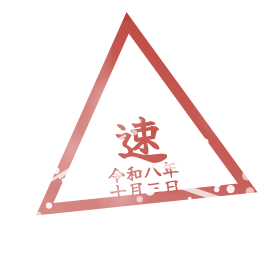
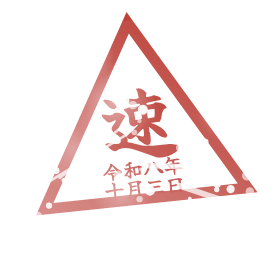
二郎の洗礼の印をにんにくの形にし、疾風の着丼の字を大きくする (#155)

Changed region(s): [[0.3429, 0.3143, 0.6571, 0.7143]]

diff --git a/lib/features/quests/quest_seal.dart b/lib/features/quests/quest_seal.dart
@@ -49,15 +49,15 @@ class QuestSeal extends StatelessWidget {
                 dimension: size,
                 child: CustomPaint(
                   painter: _SpotSealPainter(design.shape),
-                  // 三角と丼は内側が下に寄っているので、字を下げる（三角は狭いので小さくもする）。
+                  // 三角とにんにくは内側が下に寄っているので、字を下げる。三角は下ほど狭いので、日付を小さくする。
                   child: Align(
                     alignment: switch (design.shape) {
-                      QuestSealShape.triangle => const Alignment(0, 0.3),
-                      QuestSealShape.bowl => const Alignment(0, 0.08),
+                      QuestSealShape.triangle => const Alignment(0, -0.02),
+                      QuestSealShape.garlic => const Alignment(0, 0.18),
                       _ => Alignment.center,
                     },
                     child: Transform.scale(
-                      scale: design.shape == QuestSealShape.triangle ? 0.6 : 1,
+                      scale: 1,
                       child: Column(
                         mainAxisSize: MainAxisSize.min,
                         children: [
@@ -69,7 +69,10 @@ class QuestSeal extends StatelessWidget {
                                 fontFamily: Washi.brush,
                                 fontSize:
                                     size *
-                                    (achievedAt == null ? 0.46 : 0.36) /
+                                    (achievedAt == null ? 0.46 : 0.36) *
+                                    (design.shape == QuestSealShape.triangle
+                                        ? 0.9
+                                        : 1) /
                                     (design.glyph.characters.length > 1
                                         ? 1.7
                                         : 1),
@@ -82,10 +85,12 @@ class QuestSeal extends StatelessWidget {
                               // 菱形と花は内側が狭いので、日付を小さくする。
                               width:
                                   size *
-                                  (design.shape == QuestSealShape.diamond ||
-                                          design.shape == QuestSealShape.flower
-                                      ? 0.38
-                                      : 0.5),
+                                  switch (design.shape) {
+                                    QuestSealShape.triangle => 0.34,
+                                    QuestSealShape.diamond ||
+                                    QuestSealShape.flower => 0.38,
+                                    _ => 0.5,
+                                  },
                               child: FittedBox(
                                 child: Text(
                                   kanjiEraDate(l10n, at),
@@ -357,25 +362,62 @@ class _SpotSealPainter extends CustomPainter {
         }
         canvas.drawPath(star..close(), line);
         canvas.drawCircle(c, r * 0.58, thin);
-      // 丼の形（上が平らで、下が深い丸み。下に高台）。
-      case QuestSealShape.bowl:
-        final top = c.dy - r * 0.55;
-        final body = Rect.fromLTRB(
-          c.dx - r,
-          top - r * 1.42,
-          c.dx + r,
-          top + r * 1.42,
-        );
-        final bowl = Path()
-          ..moveTo(body.left, top)
-          ..arcTo(body, math.pi, -math.pi, false)
+      // にんにくの玉（下がふっくら丸く、上がとがる。縁に沿って片の筋、下に根）。
+      case QuestSealShape.garlic:
+        Offset at(double x, double y) => c + Offset(x * r, y * r);
+        final tip = at(0, -0.98);
+        final bulb = Path()
+          ..moveTo(tip.dx, tip.dy)
+          ..cubicTo(
+            at(0.14, -0.7).dx,
+            at(0.14, -0.7).dy,
+            at(0.98, -0.42).dx,
+            at(0.98, -0.42).dy,
+            at(0.92, 0.3).dx,
+            at(0.92, 0.3).dy,
+          )
+          ..cubicTo(
+            at(0.88, 0.8).dx,
+            at(0.88, 0.8).dy,
+            at(0.45, 0.9).dx,
+            at(0.45, 0.9).dy,
+            at(0, 0.9).dx,
+            at(0, 0.9).dy,
+          )
+          ..cubicTo(
+            at(-0.45, 0.9).dx,
+            at(-0.45, 0.9).dy,
+            at(-0.88, 0.8).dx,
+            at(-0.88, 0.8).dy,
+            at(-0.92, 0.3).dx,
+            at(-0.92, 0.3).dy,
+          )
+          ..cubicTo(
+            at(-0.98, -0.42).dx,
+            at(-0.98, -0.42).dy,
+            at(-0.14, -0.7).dx,
+            at(-0.14, -0.7).dy,
+            tip.dx,
+            tip.dy,
+          )
           ..close();
-        canvas.drawPath(bowl, line);
-        canvas.drawLine(
-          Offset(c.dx - r * 0.3, c.dy + r * 0.97),
-          Offset(c.dx + r * 0.3, c.dy + r * 0.97),
-          line,
-        );
+        canvas.drawPath(bulb, line);
+        for (final side in [-1.0, 1.0]) {
+          canvas.drawPath(
+            Path()
+              ..moveTo(at(side * 0.08, -0.78).dx, at(side * 0.08, -0.78).dy)
+              ..quadraticBezierTo(
+                at(side * 0.86, -0.3).dx,
+                at(side * 0.86, -0.3).dy,
+                at(side * 0.72, 0.5).dx,
+                at(side * 0.72, 0.5).dy,
+              ),
+            thin,
+          );
+        }
+        for (final x in [-0.12, 0.0, 0.12]) {
+          canvas.drawLine(at(x * 0.6, 0.92), at(x, 1.0), thin);
+        }
       // 東西南北に小さな三角をもつ丸（方位磁石）。
       case QuestSealShape.compass:
         canvas.drawCircle(c, r - w * 2.4, line);

diff --git a/lib/features/quests/quests.dart b/lib/features/quests/quests.dart
@@ -28,7 +28,7 @@ enum QuestSealShape {
   dashedRing,
   pentagon,
   star,
-  bowl,
+  garlic,
   compass,
   cornerDots,
   wave,
@@ -289,7 +289,7 @@ const quests = <Quest>[
     unit: '杯',
     thresholds: [1],
     count: _jiroCount,
-    seal: QuestSealDesign('二郎', QuestSealShape.bowl),
+    seal: QuestSealDesign('二郎', QuestSealShape.garlic),
   ),
   Quest(
     id: 'far_journey',

diff --git a/test/tool/hiden_catalog_test.dart b/test/tool/hiden_catalog_test.dart
@@ -37,7 +37,7 @@ const _shapeNames = {
   QuestSealShape.dashedRing: '切れ目の輪',
   QuestSealShape.pentagon: '五角形',
   QuestSealShape.star: '星',
-  QuestSealShape.bowl: '丼',
+  QuestSealShape.garlic: 'にんにく',
   QuestSealShape.compass: '方位',
   QuestSealShape.cornerDots: '四隅の点',
   QuestSealShape.wave: '波',

diff --git a/docs/hiden/README.md b/docs/hiden/README.md
@@ -25,7 +25,7 @@
 | <img src="pilgrimage.png" width="72"> | 月の巡礼 | 1か月に10軒の違う店で食べる | 巡 | 切れ目の輪 | いつでも | `pilgrimage` |
 | <img src="limited_month.png" width="72"> | 限定狩りの月 | 1か月に限定を3杯食べる | 狩 | 五角形 | いつでも | `limited_month` |
 | <img src="perfect.png" width="72"> | 満点の舌 | ★5を10杯つける | 満 | 星 | いつでも | `perfect` |
-| <img src="jiro.png" width="72"> | 二郎の洗礼 | 二郎系を食べる | 二郎 | 丼 | いつでも | `jiro` |
+| <img src="jiro.png" width="72"> | 二郎の洗礼 | 二郎系を食べる | 二郎 | にんにく | いつでも | `jiro` |
 | <img src="far_journey.png" width="72"> | 遥かなる遠征 | いちばん通っている店から100km以上離れた店で食べる | 旅 | 方位 | いつでも | `far_journey` |
 | <img src="new_year_eve.png" width="72"> | 年越しの一杯 | 12月31日に食べる | 年越 | 四隅の点 | いつでも | `new_year_eve` |
 | <img src="summer_cold.png" width="72"> | 夏の涼麺 | 7〜8月につけ麺か汁なしを食べる | 涼 | 波 | いつでも | `summer_cold` |
